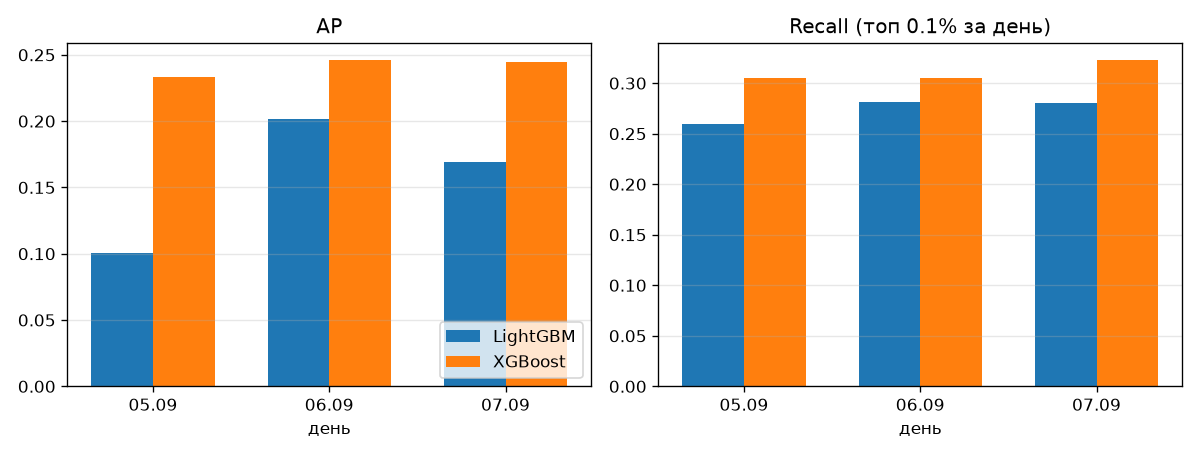
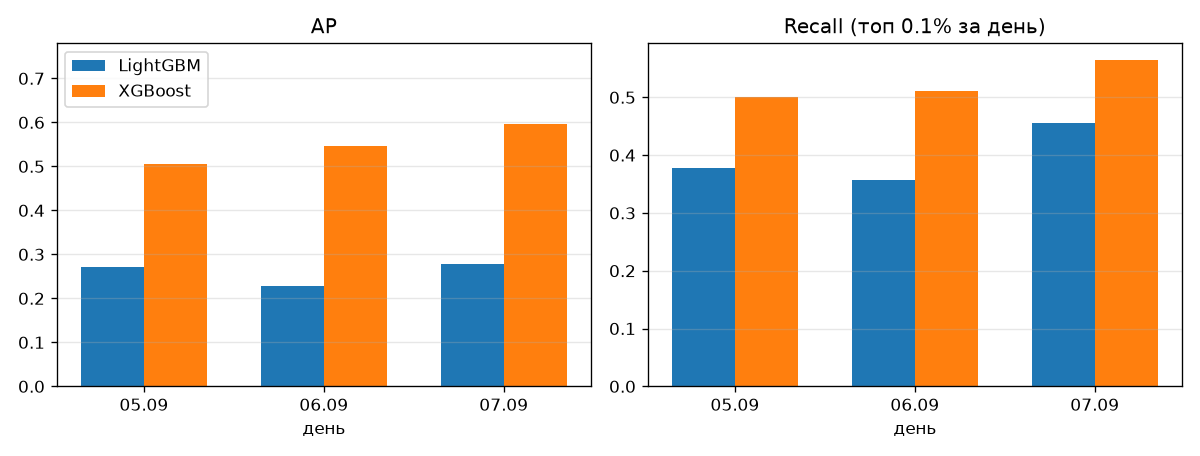
Update docs

diff --git a/docs/dataset.md b/docs/dataset.md
@@ -2,15 +2,22 @@
 
 Данные синтетические, это [IBM Transactions for Anti Money Laundering](https://www.kaggle.com/datasets/ealtman2019/ibm-transactions-for-anti-money-laundering-aml/data) с Kaggle. Каждая строка это один платёж и метка, отмывание это или нет. Метка известна, поэтому можно обучать обычный классификатор.
 
-Я взял `LI-Small`. Всего вариантов шесть: `HI-Small`, `HI-Medium`, `HI-Large`, `LI-Small`, `LI-Medium`, `LI-Large`. HI и LI это больше или меньше доля отмывания, Small/Medium/Large это размер.
+Всего вариантов шесть: `HI-Small`, `HI-Medium`, `HI-Large`, `LI-Small`, `LI-Medium`, `LI-Large`. HI и LI это больше или меньше доля отмывания, Small/Medium/Large это размер. Сначала я брал `LI-Small`, сейчас основной прогон на `HI-Small`: 5 078 345 транзакций с 1 по 18 сентября 2022, из них 5177 отмывание (0.10%).
 
 ## В чём сложность
 
-Положительных очень мало, и картина меняется от дня к дню. Accuracy тут бесполезна: если всегда говорить «обычный платёж», accuracy будет почти 100%, а отмывание не найдётся вообще. Поэтому я смотрю на Average Precision, precision и recall.
+Положительных очень мало, и картина меняется от дня к дню. Accuracy тут бесполезна: если всегда говорить «обычный платёж», accuracy будет 99.9%, а отмывание не найдётся вообще. Поэтому я смотрю на Average Precision, precision и recall.
 
-Вот сколько было транзакций и какая доля отмывания по дням в train:
+Вот сколько было транзакций и какая доля отмывания по дням в warmup + train на HI-Small:
 
-![транзакции и доля отмывания по дням](../reports/full/figures/01_eda_1.png)
+![транзакции и доля отмывания по дням](images/eda_daily.png)
+
+Объём по дням сильно скачет (от 1.1 млн 1 сентября до 0.2 млн 3–4 сентября), а доля отмывания меняется в 6 раз. В конце симуляции есть хвост, где обычных транзакций почти нет, его ETL выкидывает (подробнее в [ETL.md](ETL.md#разбиение-по-времени)).
+
+Что ещё видно в train (подробнее в `notebooks/01_eda.ipynb`):
+- 83% отмывания приходится на формат ACH, а у Wire и Reinvestment положительных нет вообще. Из-за этого модель потом находит отмывание только в ACH.
+- Из валют выделяется Saudi Riyal: доля отмывания в 3.5 раза выше средней.
+- У половины отправителей 1–2 транзакции, а у самого активного больше 101 тыс.
 
 Это только про этот синтетический набор, про реальные банки отсюда ничего не скажешь.
 
@@ -32,22 +39,19 @@
 
 Счёт всегда беру вместе с банком: один и тот же номер в двух разных банках это разные счета. В CSV обе колонки со счетом называются `Account`, pandas сам переименовывает вторую в `Account.1`.
 
-ID транзакции нет. Поэтому одинаковые строки я не удаляю, это вполне могут быть два настоящих одинаковых платежа.
+ID транзакции нет. Поэтому одинаковые строки я не удаляю, это вполне могут быть два настоящих одинаковых платежа (в HI-Small таких всего 9).
 
 ## Как скачать
 
-```bash
-python3 scripts/download_dataset.py
-```
+Как настроить Kaggle CLI, скачать HI-Small и запустить ETL, написано в [ETL.md](ETL.md#откуда-взять-данные). Скрипт `scripts/download_dataset.py` пока качает только LI-Small.
 
-Перед этим нужно настроить Kaggle CLI, как это сделать и как потом запустить ETL, написано в [ETL.md](ETL.md).
+Сырой файл лежит в `data/raw/`, подготовленные данные в `artifacts/runs/<run_id>/data/`. Обе папки в git не попадают.
 
-Сырой файл попадает в `data/raw/LI-Small_Trans.csv`, подготовленные данные в `artifacts/runs/<run_id>/data/`. Обе папки в git не попадают.
+## Откуда какие цифры
 
-## Откуда взялись цифры в отчётах
-
-Полный эксперимент, который лежит в `reports/`, обработал 6 924 041 строку из локального `data/processed/raw.parquet`. Совпадает ли он один в один со скачанным сейчас CSV, я не проверял. Новый ETL записывает SHA256 файла, так что дальше будет видно, на каких именно данных был запуск.
+- Текущие результаты (HI-Small) в выводах ноутбуков и в [README](../README.md). Каждый ETL run записывает SHA256 исходного файла, так что видно, на каких именно данных был запуск.
+- В `reports/` лежит старый полный эксперимент на LI-Small: 6 924 041 строка из локального `data/processed/raw.parquet`. Совпадает ли он один в один с CSV, который скачивается сейчас, я не проверял.
 
 Ещё в датасете нет информации, когда закончилось расследование и метка стала известна. OTE считает, что метки известны сразу. Для реальной системы это так не работает, надо помнить.
 
-[Результаты](../reports/full/RESULTS.md) · [README](../README.md)
+[README](../README.md) · [ETL](ETL.md)

diff --git a/docs/SYSTEM_DESIGN.md b/docs/SYSTEM_DESIGN.md
@@ -43,7 +43,7 @@
 | Мониторинг | дрейф только в notebook 05 | `monitoring/` |
 | Dashboard | статический html, в git не лежит | нет |
 
-Модель сейчас (XGBoost на test): AP 0.374, precision 67.6%, recall 32.0%, 355 алертов. В backtest с бюджетом 0.1% в день AP ~0.24, recall ~31%. То есть это скорее помощь в сортировке, она ловит примерно треть, а не полноценный детектор. Система вокруг должна это учитывать.
+Модель сейчас (XGBoost, HI-Small, test 9–10 сентября): AP 0.604, precision 78.4%, recall 51.7%, 630 алертов за 2 дня. В backtest с бюджетом 0.1% в день AP ~0.55, recall ~53%. То есть она ловит примерно половину, и **только в платежах ACH**: в других форматах на test она не нашла ни одного из 122 случаев. Это скорее помощь в сортировке, чем полноценный детектор, и система вокруг должна это учитывать (например, отдельные правила или модели для других форматов).
 
 ## Общая схема
 
@@ -152,7 +152,7 @@ model_bundle(bundle_id PK, trained_at, cutoff_ts, status, metrics_json)  -- cand
 
 | Способ | Где | Как работает |
 |---|---|---|
-| порог по max F1 (0.2988) | notebook 04 | число алертов плавает, 355 за 2 дня test |
+| порог по max F1 (0.404) | notebook 04 | число алертов плавает: 630 за 2 дня test, причём 0.05% транзакций в один день и 0.15% в другой |
 | топ 0.1% за день | backtest | число фиксировано, но нужен весь день, онлайн так не посчитать |
 
 Для прода я бы сделал **порог + лимит**:
@@ -282,7 +282,7 @@ GET  /metrics/summary?from=…&to=…                цифры для dashboard
 | Parquet + Postgres | два хранилища | только Parquet или DWH | аналитика в Parquet, работа с алертами в Postgres | бэкапить два места |
 | порог + лимит | да | порог по max F1 | реальное ограничение это сколько успевают аналитики | порог надо пересчитывать |
 | случайная доля в очереди | 5–10% | не делать | иначе recall не узнать | аналитики тратят время на почти наверняка нормальные транзакции |
-| XGBoost чемпион | оставить | LightGBM, ансамбль | выиграл во всех 3 окнах backtest | 3 соседних дня это мало |
+| XGBoost чемпион | оставить | LightGBM, ансамбль | первый по AP на validation и выиграл все 3 окна backtest | после подбора параметров отрыв от LightGBM в пределах шума (бутстрап), а в backtest LightGBM был с параметрами по умолчанию |
 | ноутбуки → код + CLI | переносить | оставить ноутбуки | воспроизводимость, CI, расписание | надо потратить время на рефакторинг |
 | pickle | `joblib` + хэши | ONNX / нативные форматы | быстро, состояние это Python-объект | риски pickle, привязка к версии Python |
 | запуск по расписанию | cron/systemd, потом Prefect | Airflow | задач две-три | ретраи руками, взять планировщик если задач станет > 5 |
@@ -306,9 +306,9 @@ GET  /metrics/summary?from=…&to=…                цифры для dashboard
 2. Как делить состояние на части, если признаки получателя мешают. Решить до того, как перестанет влезать в память.
 3. Графовые признаки. Отмывание это структура (fan-out/fan-in, циклы, цепочки), а у меня окна по одному счёту. Многошаговые признаки или GNN, наверное, подняли бы recall.
 4. Когда появятся настоящие решения аналитиков, всё переоценить. Метки симулятора, особенно хвост, на реальность не похожи.
-5. Может, лучше отдельные модели для разных форматов платежа или валют, или правила + ML. Посмотреть `reports/full/error_analysis` по сегментам.
+5. Отдельные модели или правила для разных форматов платежа. Сейчас все алерты на ACH, а отмывание в Cheque, Credit Card, Cash и Bitcoin модель не видит совсем (таблицы ошибок по сегментам в notebook 04).
 6. Когда моделей или окружений станет несколько, заменить папки с указателями на MLflow и нормальный планировщик.
-7. Backtest на 3 днях не различает модели на уровне 0.01–0.05 AP. Нужна история длиннее (HI-Medium/Large) и бутстрап.
+7. Один день validation не различает модели на уровне ~0.01 AP (бутстрап в 03 это показал), и 3 дня backtest тоже мало. Нужна история длиннее (HI-Medium/Large) и одинаково настроенные модели в backtest.
 
 ## Открытые вопросы
 

diff --git a/docs/ETL.md b/docs/ETL.md
@@ -8,7 +8,7 @@ ETL берёт сырой CSV с транзакциями и готовит из
 
 ## Откуда взять данные
 
-Нужен файл `LI-Small_Trans.csv` из [IBM Transactions for Anti Money Laundering](https://www.kaggle.com/datasets/ealtman2019/ibm-transactions-for-anti-money-laundering-aml/data).
+Сейчас основной прогон идёт на `HI-Small_Trans.csv` из [IBM Transactions for Anti Money Laundering](https://www.kaggle.com/datasets/ealtman2019/ibm-transactions-for-anti-money-laundering-aml/data). Раньше я брал `LI-Small_Trans.csv`, ETL работает с обоими.
 
 Из корня проекта:
 
@@ -19,7 +19,13 @@ kaggle auth login
 python3 scripts/download_dataset.py
 ```
 
-Скрипт кладёт CSV в `data/raw/`. Он качает только этот один файл, сам распаковывает zip и проверяет заголовок и первую строку. Если загрузка оборвётся, недокачанный файл в папке не останется. Если файл уже скачан, второй раз он не качается.
+Скрипт сделан для скачивания только `LI-Small_Trans.csv`. HI-Small можно скачать напрямую через Kaggle CLI (если придёт zip, распакуйте его в `data/raw/`):
+
+```bash
+kaggle datasets download -d ealtman2019/ibm-transactions-for-anti-money-laundering-aml -f HI-Small_Trans.csv -p data/raw
+```
+
+Скрипт кладёт CSV в `data/raw/`. Он качает только один файл, сам распаковывает zip и проверяет заголовок и первую строку. Если загрузка оборвётся, недокачанный файл в папке не останется. Если файл уже скачан, второй раз он не качается.
 
 В CSV две колонки называются `Account`, так и должно быть. pandas переименует вторую в `Account.1`. Проверка заголовка нужна только чтобы понять, что скачали правильный файл, нормальная проверка данных идёт потом.
 
@@ -39,7 +45,7 @@ python3 scripts/download_dataset.py --output-dir /path/to/raw
 
 ```bash
 uv run --locked aml-etl \
-  --source data/raw/LI-Small_Trans.csv \
+  --source data/raw/HI-Small_Trans.csv \
   --output artifacts/runs-smoke \
   --smoke
 ```
@@ -50,7 +56,7 @@ uv run --locked aml-etl \
 
 ```bash
 uv run --locked aml-etl \
-  --source data/raw/LI-Small_Trans.csv \
+  --source data/raw/HI-Small_Trans.csv \
   --output artifacts/runs
 ```
 
@@ -214,11 +220,11 @@ X_new = encoder.transform(pipeline.transform_update(validate_raw(new_transaction
 
 ## Ограничения
 
-- После ETL данные уже числовые, можно сразу идти в notebook 03. Notebook 02 не обязателен: там я заново собираю признаки с исходными категориями, чтобы сравнить CatBoost на сырых категориях и OTE.
+- После ETL данные уже числовые, можно сразу идти в notebook 03. Notebook 02 не обязателен: там я заново собираю признаки с исходными категориями, чтобы сравнить CatBoost на сырых категориях и OTE. На HI-Small OTE оказался не лучше (AP 0.630 против 0.638 у сырых категорий), но я его оставил, потому что LightGBM, XGBoost и логрегрессия строки не принимают.
 - На HI-Small пиковая память около 6 ГБ. Это из-за строковых колонок в pandas (35 млн Python-строк), история тут ни при чём.
 - Smoke нужен только чтобы проверить, что код работает. Распределение классов и связи между счетами там другие, так что метрики на нём ничего не значат.
 - В данных нет времени, когда событие или метка реально стали известны. То, что поля получателя платежа доступны в момент скоринга, это допущение.
-- Старый полный эксперимент делался на локальном Parquet. Я не проверял, что он совпадает с CSV, который скачивается сейчас.
+- Старый полный эксперимент на LI-Small (в `reports/`) делался на локальном Parquet. Я не проверял, что он совпадает с CSV, который скачивается сейчас.
 
 ## Тесты
 
